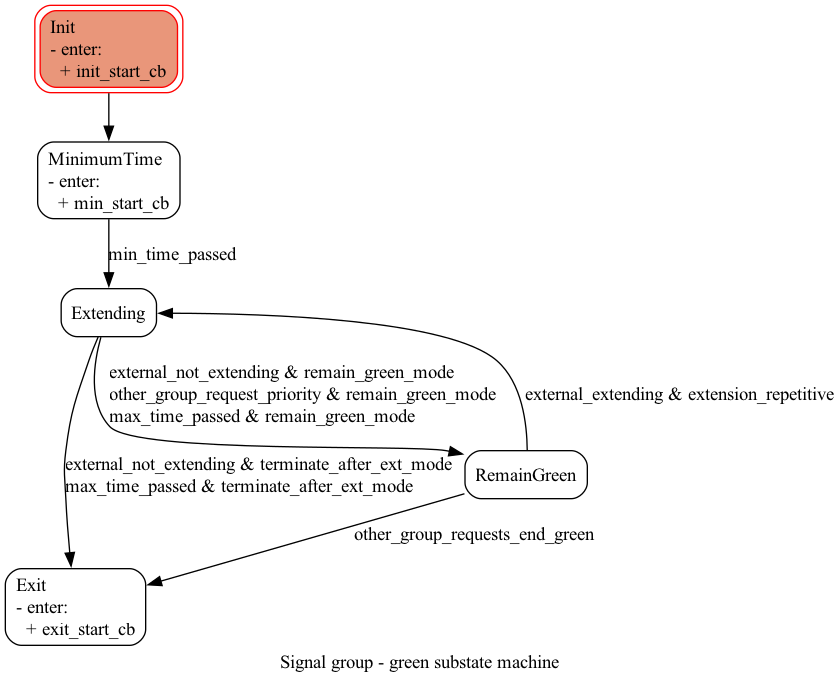
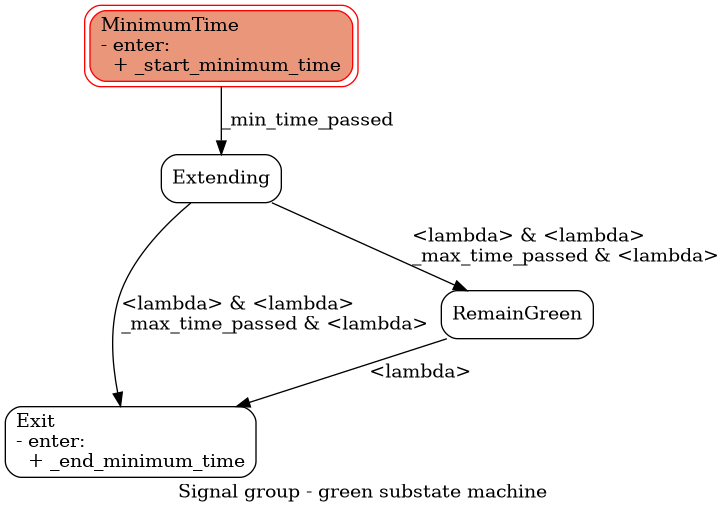
Re-verify signal_group_operation.md against the rewritten machine
The rewrite changed the machine: the Init substates are gone
(phases start in MinimumTime), Red's CanEnd/ForceGreen became
WaitRequestAndPermission/EndingConflicts with reworked conditions,
Green's green_end modes became the remain_green flag with no
repetitive-extension return path, and the request/extend inputs moved
from group properties to attached requester and extender objects.

Rewrote the phase walkthroughs and the Interfaces section accordingly,
regenerated all five diagrams from the new machine, and switched the
generation instructions to the module-form uv command with a YAML conf
(noting the graphviz system dependency and the <lambda> guard labels).

Also fixes draw_submachine_graphs(), which still referenced the
pre-rewrite submachine attribute names and crashed - needed to
regenerate the per-phase figures.

Changed region(s): [[0.0, 0.0, 1.0, 0.9981], [0.3945, 0.4366, 0.5462, 0.499], [0.3945, 0.4055, 0.4248, 0.4366]]

diff --git a/services/control_engine/src/signal_group.py b/services/control_engine/src/signal_group.py
@@ -543,10 +543,10 @@ def draw_submachine_graphs():
     with _graph_capable():
         sg = _build_signal_group()
         submachines = {
-            "red": sg.group_based_red,
-            "amber_red": sg.fixed_amber_red,
-            "green": sg.va_green,
-            "amber": sg.fixed_amber,
+            "red": sg._red_state,
+            "amber_red": sg._amber_red_state,
+            "green": sg._green_state,
+            "amber": sg._amber_state,
         }
         for name, machine in submachines.items():
             _style_diagram(machine, f"Signal group - {name} substate machine")

diff --git a/services/control_engine/doc/signal_group_operation.md b/services/control_engine/doc/signal_group_operation.md
@@ -15,23 +15,32 @@ The diagrams in this document are generated directly from the `transitions`-base
 state machine implementation in `signal_group.py`, so they always reflect the
 actual code rather than a hand-drawn approximation of it.
 
-From the repository root, with a controller config file (e.g. one of the files
-under `models/`, or your own):
+From the repository root, with a YAML controller configuration (e.g. one of the
+files under `models/`, or your own):
 
 ```
 mkdir -p tmp
 
 # Full ring: all four phases in one diagram
-pipenv run python services/control_engine/src/signal_group.py --conf-file models/test/simple/contr.json
+uv run python -m services.control_engine.src.signal_group --conf-file models/test/simple/contr.yaml
 
 # One diagram per phase (Red, AmberRed, Green, Amber)
-pipenv run python services/control_engine/src/signal_group.py --submachines --conf-file models/test/simple/contr.json
+uv run python -m services.control_engine.src.signal_group --submachines --conf-file models/test/simple/contr.yaml
 ```
+
+Generating the diagrams needs the `graphviz` system package (the `dot`
+command) in addition to the Python dependencies.
 
 The full ring is written to `tmp/ring.png`, and the per-phase diagrams to
 `tmp/ring_red.png`, `tmp/ring_amber_red.png`, `tmp/ring_green.png` and
-`tmp/ring_amber.png`. It always diagrams the first signal group listed under
-`controller.signal_groups` in the given config file.
+`tmp/ring_amber.png`. It always diagrams one signal group of the first
+controller listed under `clockwork.controllers` in the given configuration
+file.
+
+Where an arrow's guard is implemented as a named condition method, the label
+shows its name (e.g. `_min_time_passed`); guards implemented as inline
+lambdas show as `<lambda>` on the diagram - the sections below spell out what
+each of those conditions is.
 
 ## Operation
 
@@ -40,111 +49,102 @@ The full ring is written to `tmp/ring.png`, and the per-phase diagrams to
 ![Full signal group ring](figures/full_signalgroup_ring.png)
 
 The signal group cycles through Red, AmberRed, Green and Amber in a fixed order -
-there is no other possible sequence. Each of the four phases is its own nested
-state machine, shown individually below.
-
-Every arrow in the diagrams below is a `next_state` transition. Where an arrow
-has no label, the transition is unconditional (it fires as soon as the
-previous state's entry logic runs); where it has a label, that label is the
-guard condition that must become true before the transition fires. Making
-these conditions explicit here - even for the simple phases - is meant to
-match exactly what the diagrams show, since it's easy to assume a phase like
-AmberRed is "just a timer" without naming what actually ends it.
+there is no other possible sequence. Every transition is a `next_state`
+transition, fired on every controller tick; a transition happens when its
+guard conditions are true. Each of the four phases is its own nested state
+machine: AmberRed and Amber are plain fixed-time phases (`FixedTime`), Red
+adds the group-based green-start logic (`GroupBasedRed`), and Green adds the
+extension logic (`ExtendedGreen`).
 
 ### AmberRed
 
 ![AmberRed substate machine](figures/signalgroup_ring_amber_red.png)
 
-AmberRed is one of the simple phases: `Init` moves unconditionally to
-`MinimumTime`, which runs a minimum time that, in this phase, is also its
-maximum time. `MinimumTime` moves to `Exit` once the `min_time_passed`
-condition becomes true, ending the phase.
+AmberRed is one of the simple phases: it starts in `MinimumTime`, which runs
+a minimum time that, in this phase, is also its maximum time (`min_amber_red`
+in the configuration). `MinimumTime` moves to `Exit` once `_min_time_passed`
+becomes true, ending the phase.
 
 ### Amber
 
 ![Amber substate machine](figures/signalgroup_ring_amber.png)
 
-Amber works the same way as AmberRed: `Init` moves unconditionally to
-`MinimumTime`, and `MinimumTime` moves to `Exit` once `min_time_passed` is
-true - again, minimum time and maximum time are the same here.
+Amber works the same way as AmberRed: `MinimumTime` moves to `Exit` once
+`_min_time_passed` is true - again, minimum time and maximum time are the
+same here (`min_amber`).
 
 ### Red
 
 ![Red substate machine](figures/signalgroup_ring_red.png)
 
-Red is more complex than the other two fixed-time phases:
+Red (`GroupBasedRed`) is more complex than the two fixed-time phases:
 
-- `Init` moves unconditionally to `MinimumTime`, same as AmberRed and Amber.
-- `MinimumTime` moves to `CanEnd` once `min_time_passed` is true.
-- `CanEnd` moves to `ForceGreen` once `has_green_request & has_green_permission`
-  is true - i.e. the signal group has a green request and the controller has
-  given it permission to go green.
-- In `ForceGreen`, the controller attempts to end any conflicting green
-  groups. `ForceGreen` moves to `WaitIntergreen` once `all_conflicts_red` is
-  true, meaning those conflicting groups have actually turned red.
-- `WaitIntergreen` is the all-red time; it moves to `Exit`, ending the Red
-  phase, once `intergreens_passed` is true.
+- `MinimumTime` moves to `WaitRequestAndPermission` once `_min_time_passed`
+  is true (`min_red`). Entering `WaitRequestAndPermission` also clears any
+  leftover end-green request on the group.
+- `WaitRequestAndPermission` moves to `EndingConflicts` once the group both
+  has a green request (`is_requesting`) and the controller has given it
+  permission to go green (`green_permission`).
+- On entering `EndingConflicts` the group requests all of its conflicting
+  groups to end their greens (`end_conflict_greens()`). It moves on to
+  `WaitIntergreen` once no conflicting group is blocking anymore
+  (`conflict_group_blocking()` is false), meaning the conflicts have left
+  their Green/Amber states.
+- `WaitIntergreen` waits for the intergreen times towards the conflicting
+  groups to pass; it moves to `Exit`, ending the Red phase, once
+  `_intergreens_passed` is true. From this point on the transition to green
+  can no longer be blocked.
 
 ### Green
 
 ![Green substate machine](figures/signalgroup_ring_green.png)
 
-Green starts the same way as the other phases, but what happens after the
-minimum time depends on configuration (the `green_end` setting) as well as
-the status of external signals (extensions):
+Green (`ExtendedGreen`) starts the same way as the other phases, but what
+happens after the minimum time depends on the group's extenders and the
+`remain_green` configuration setting:
 
-- `Init` moves unconditionally to `MinimumTime`, same as the other phases.
-- `MinimumTime` moves to `Extending` once `min_time_passed` is true. Every
-  green phase always passes through `Extending`, regardless of mode.
-- From `Extending`, what happens next depends on `green_end`:
-  - In **"terminate after ext" mode** (`terminate_after_ext_mode`), green
-    always stops when either the extensions end
-    (`external_not_extending & terminate_after_ext_mode`) or the maximum
-    green time is reached (`max_time_passed & terminate_after_ext_mode`) -
-    both move straight to `Exit`.
-  - In **"remain green" mode** (`remain_green_mode`), `Extending` moves to
-    `RemainGreen` instead of `Exit` - in this mode the phase never exits
-    directly from `Extending`. This happens on any of three conditions:
-    extensions have ended (`external_not_extending & remain_green_mode`),
-    another group has priority (`other_group_request_priority &
-    remain_green_mode`, e.g. a public transport priority request), or the
-    maximum time has passed (`max_time_passed & remain_green_mode`).
-- `RemainGreen` moves to `Exit` once `other_group_requests_end_green` is
-  true - in practice, a conflicting group wants to start its own green and
-  cannot do so until this group ends its green.
-- If `extension_repetitive` mode is on and an external extension restarts
-  (`external_extending & extension_repetitive`), `RemainGreen` can also
-  move back to `Extending`.
+- `MinimumTime` moves to `Extending` once `_min_time_passed` is true
+  (`min_green`). Every green phase always passes through `Extending`.
+- From `Extending`, what happens next depends on `remain_green`:
+  - With `remain_green: false`, green ends when the extenders stop extending
+    (`is_extending` becomes false) or when the maximum green time is reached
+    (`_max_time_passed`, `max_green`) - both move straight to `Exit`.
+  - With `remain_green: true`, the same two conditions move to `RemainGreen`
+    instead: the group keeps a passive green after its extensions end.
+- `RemainGreen` moves to `Exit` once a conflicting group requests this group
+  to end its green (`end_green_requested`, set by the conflicting group's
+  `end_conflict_greens()` when it starts its own green process) - in
+  practice, the group stays green until someone else needs the right of way.
 
 ## Interfaces
 
-Signal groups generally operate independently of each other, and change state
-automatically within `tick()` (`SignalGroup.tick()`, `signal_group.py`)
-whenever their conditions are met - `tick()` simply calls `next_state()` on
-every time step, which fires whichever `next_state` transition (if any) has
-its guard condition currently true.
+Signal groups generally operate independently of each other, and change
+state automatically within `tick()` (`SignalGroup.tick()`,
+`signal_group.py`): every tick first updates the group's requesters and
+extenders, then calls `next_state()`, which fires whichever `next_state`
+transition (if any) has its guard conditions currently true.
 
-Some of these conditions are purely clock-driven, such as `min_time_passed`
-and `intergreens_passed` above. Many others, however, depend on external
-input variables that get set from outside the state machine - namely:
+Some of the conditions are purely clock-driven, such as `_min_time_passed`
+and `_intergreens_passed` above. The others depend on objects attached to
+the group from the outside:
 
-- **Request green** - whether there is demand for green time for this group.
-  Exposed as the `SignalGroup.request_green` property (backed by
-  `_request_green`), set from outside the group (e.g. by detections). Read by
-  the `has_green_request()` condition function, which is what actually feeds
-  the `CanEnd -> ForceGreen` transition in the Red substate machine.
-- **Extend** - whether there is demand to extend the green for this group.
-  This isn't a plain flag on `SignalGroup` itself: it comes from an external
-  extender object - `SignalGroup.extender` (an `Extender`) and/or
-  `SignalGroup.e3extender` (an `e3Extender`), both defined in `extender.py` -
-  each of which exposes its own `extend` property. The `external_extending()`
-  condition in the Green substate machine (`VehicleActuated`) reads
-  `self.group.extender.extend` and `self.group.e3extender.extend` and is true
-  if either extender is requesting an extension.
-- **Permission to go green** - whether the traffic controller allows this
-  group to start green if it has a request. This exists to coordinate the
-  order in which groups go green when several of them want to at the same
-  time. Exposed as the `SignalGroup.permit_green` property (backed by
-  `_permit_green`), set by the controller. Read by the `has_green_permission()`
-  condition function, alongside `has_green_request()`, for the same
-  `CanEnd -> ForceGreen` transition.
+- **Requesters** (`requesters/`) decide whether there is demand for green
+  time. The group's `is_requesting` property is true if any of its
+  requesters is requesting - or always, if the group is configured with
+  `constant_request`. Current requester types are the presence requester
+  (demand while a detector is occupied) and the trigger requester (demand
+  latched by a detector pulse until served). This feeds the
+  `WaitRequestAndPermission -> EndingConflicts` transition in Red.
+- **Extenders** (`extenders/`) decide whether the active green should
+  continue. The group's `is_extending` property is true if any of its
+  extenders is extending. Current extender types are the gap-seeking
+  extender (extends while vehicles keep arriving within the gap time) and
+  the smart extender. This feeds the `Extending` transitions in Green.
+- **Permission to go green** (`green_permission`) - whether the controller
+  allows this group to start green if it has a request. This coordinates
+  the order in which groups go green when several of them want to at the
+  same time: the phase ring controller
+  (`signal_group_controller.py`) grants and revokes it per main phase.
+- **End-green request** (`end_green_requested`) - set on this group by a
+  conflicting group that is starting its own green process; it ends this
+  group's `RemainGreen` state.
